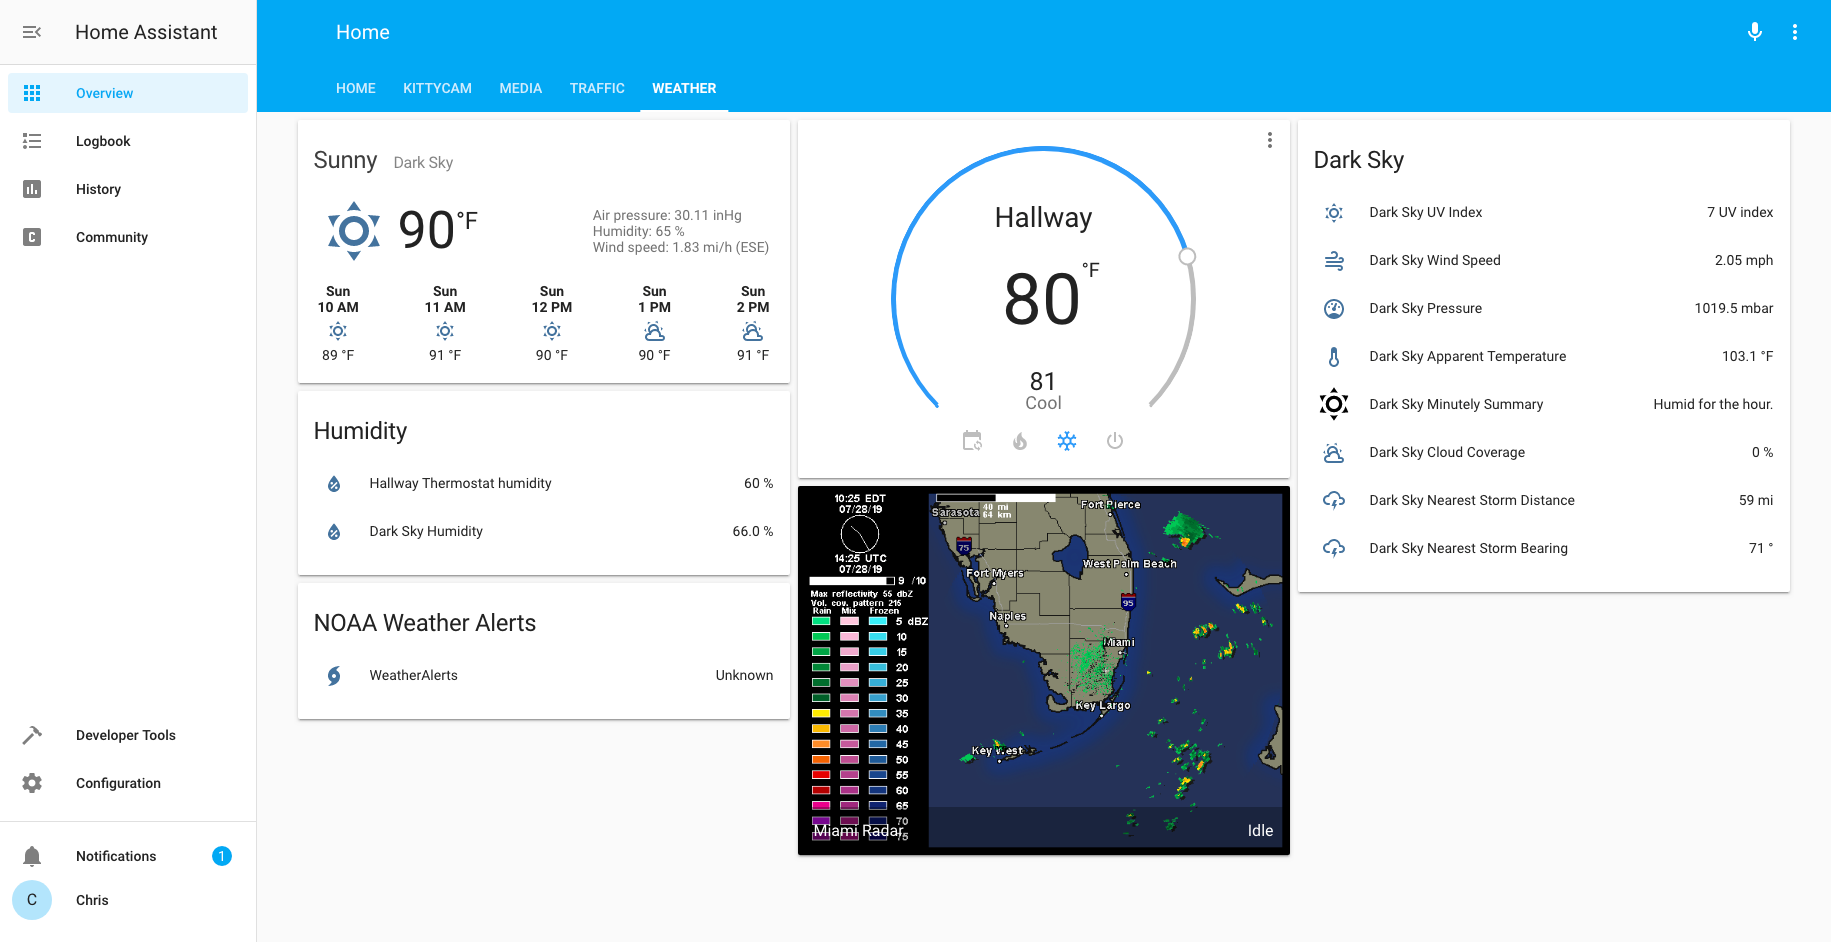
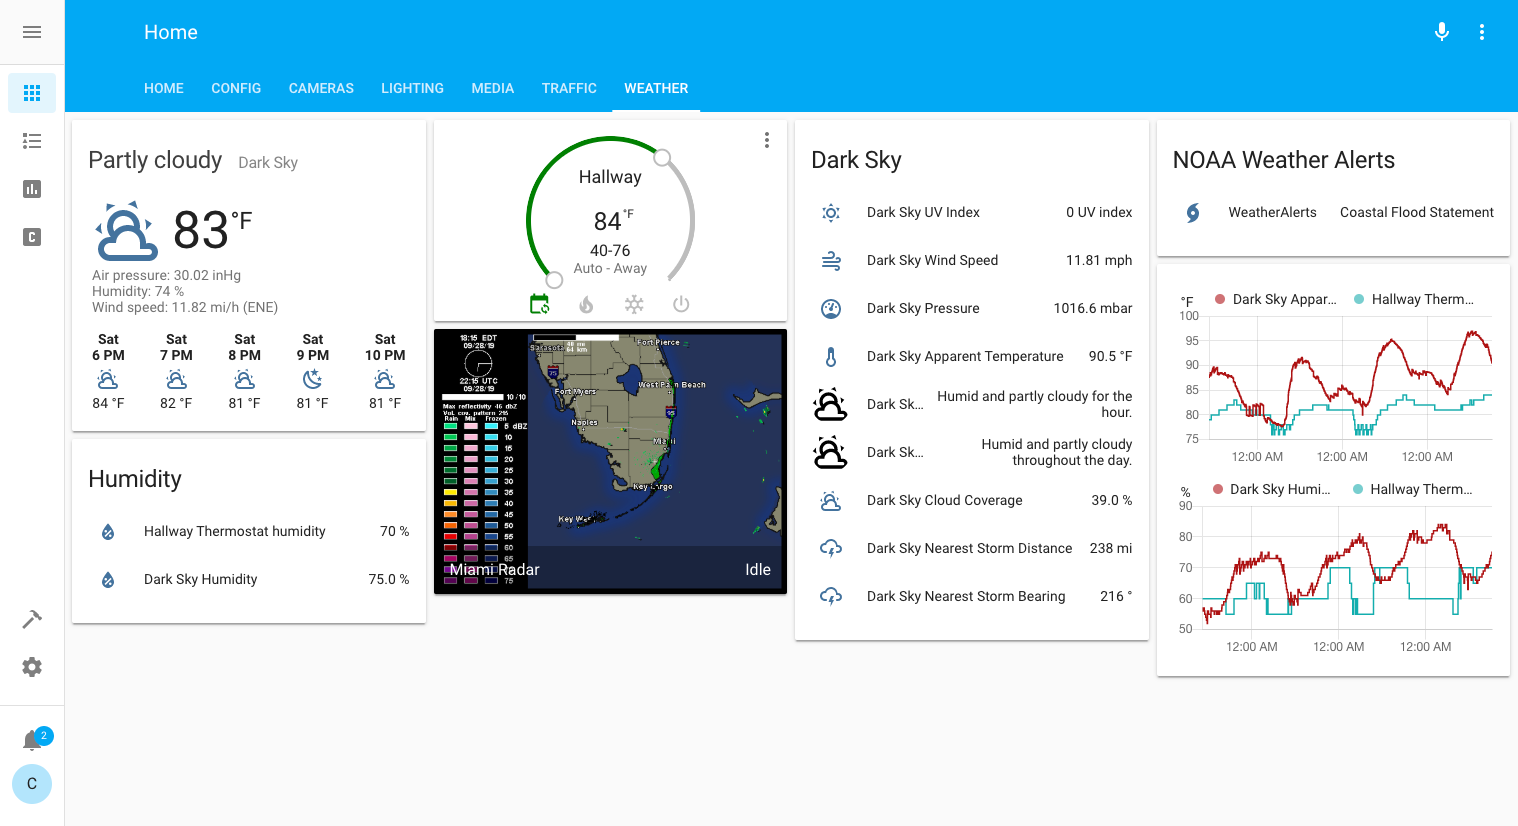
updated screenshots

diff --git a/README.md b/README.md
@@ -18,7 +18,9 @@ Through HACS, install
 ## Screenshots
 
 ![Alt text](/screenshots/home.png?raw=true "Home Screenshot")
-![Alt text](/screenshots/kittycam.png?raw=true "Kittycam Screenshot")
+![Alt text](/screenshots/config.png?raw=true "Config Screenshot")
+![Alt text](/screenshots/cameras.png?raw=true "Cameras Screenshot")
+![Alt text](/screenshots/lighting.png?raw=true "Lighting Screenshot")
 ![Alt text](/screenshots/media.png?raw=true "Media Screenshot")
 ![Alt text](/screenshots/traffic.png?raw=true "Traffic Screenshot")
 ![Alt text](/screenshots/weather.png?raw=true "Weather Screenshot")
